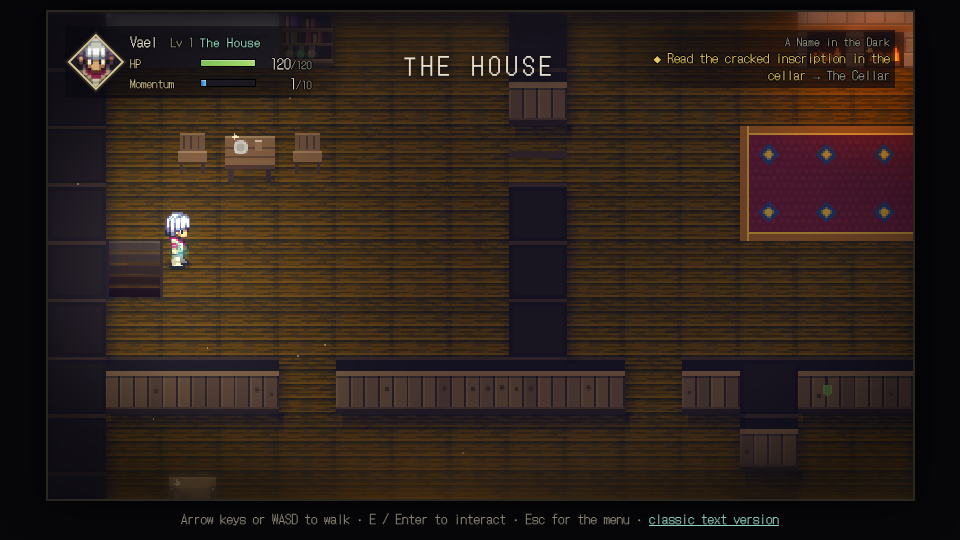
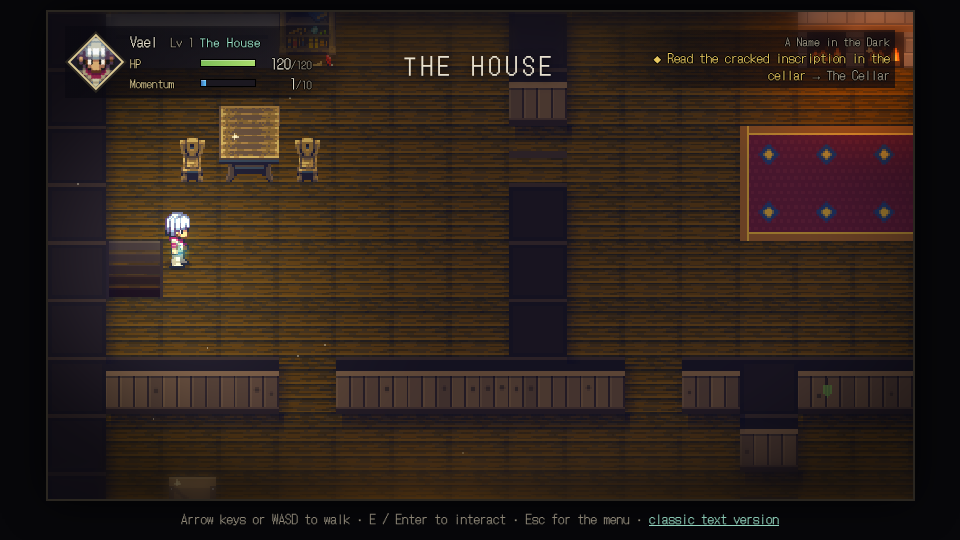
Mana Seed furniture: tables, chairs, bookcases and rocking chairs indoors
Claude-Session: https://claude.ai/code/session_018ysfjQ3yuk5cLUFu11AbcY

Changed region(s): [[0.1875, 0.1778, 0.3438, 0.3556], [0.3125, 0.0593, 0.375, 0.1185]]

diff --git a/assets/packed/assets.js b/assets/packed/assets.js
@@ -2,5 +2,5 @@
 (function (global) {
     const ENSO = global.ENSO || (global.ENSO = {});
     const A = ENSO.packedAssets || (ENSO.packedAssets = {});
[2 lines of base64/hex data omitted]
 })(typeof window !== 'undefined' ? window : globalThis);

diff --git a/ui/tiles-manaseed.js b/ui/tiles-manaseed.js
@@ -17,7 +17,7 @@
     const KEY = 'tiles/manaseed';
     const t16 = (sheet, c, r) => [sheet, c * 16, r * 16, 16, 16];
     // name -> [pack sheet, x, y, w, h] in the pack's own pictures. S = seasonal sample (summer), T = simplified
-    // full timber, H = home interiors, timber roof.
+    // full timber, H = home interiors, timber roof, C = cozy furnishings sampler.
     const PARTS = {
         ...Object.fromEntries([1, 2, 3, 4, 5].map((r, i) => [`grass${i}`, t16('S', 0, r)])),
         ...Object.fromEntries([[0, 6], [1, 6], [2, 6], [3, 6], [0, 7], [1, 7], [2, 7], [3, 7]].map(([c, r], i) => [`flowers${i}`, t16('S', c, r)])),
@@ -31,7 +31,8 @@
         tree: ['S', 176, 0, 80, 112],
         boulder: ['S', 48, 224, 32, 32],
         wall: ['T', 128, 96, 32, 32], window: ['T', 96, 96, 32, 32], roof: ['T', 208, 32, 32, 32],
-        floor: ['H', 16, 160, 32, 32]
+        floor: ['H', 16, 160, 32, 32],
+        table: ['C', 39, 5, 34, 42], chair: ['C', 17, 7, 14, 24], bookcase: ['C', 128, 0, 32, 54], rocker: ['C', 74, 50, 21, 30]
     };
 
     /** Where each part sits in the shipped atlas: shelf-packed in PARTS order, ATLAS_W wide. Shared with the tool. */
@@ -60,6 +61,14 @@
         const img = sheet();
         if (!img) return false;
         for (let y = 0; y < T; y += 32) for (let x = 0; x < T; x += 32) put(g, img, name, px + x, py + y);
+    };
+
+    /** Furniture: the piece stands on the bottom middle of its cell (taller pieces reach into the cell above). */
+    const stand = (name) => (g, px, py, T) => {
+        const img = sheet();
+        if (!img) return false;
+        const [, , w, h] = AT[name];
+        put(g, img, name, px + Math.floor((T - w) / 2), py + T - h - 1);
     };
 
     // What a path's edge treats as grass.
@@ -102,7 +111,8 @@
             if (!img) return false;
             put(g, img, 'boulder', px + (T - 32) / 2, py + T - 32);
         },
-        house_wall: fill32('wall'), timber_wall: fill32('wall'), house_window: fill32('window'), roof: fill32('roof')
+        house_wall: fill32('wall'), timber_wall: fill32('wall'), house_window: fill32('window'), roof: fill32('roof'),
+        table: stand('table'), chair: stand('chair'), shelf: stand('bookcase'), armchair: stand('rocker')
     };
 
     /** Where a tree's sprite goes: trunk foot at the bottom middle of its cell. */

diff --git a/tools/gen-manaseed-tiles.js b/tools/gen-manaseed-tiles.js
@@ -15,10 +15,10 @@ const { PARTS, layout } = require('../ui/tiles-manaseed.js');
 
 const root = path.join(__dirname, '..');
 const pack = path.resolve(process.argv[2] || process.env.MANASEED_DIR || '/mnt/project-files/25.07 - Free Mana Seed RPG Starter Pack');
-const SHEETS = { S: 'seasonal sample (summer).png', T: 'simplified full timber.png', H: 'home interiors, timber roof.png' };
+const SHEETS = { S: 'tilesets/seasonal sample (summer).png', T: 'tilesets/simplified full timber.png', H: 'tilesets/home interiors, timber roof.png', C: 'icons & objects/cozy furnishings sampler.png' };
 const OUT = path.join(root, 'assets/src/tiles/manaseed.png');
 
-const src = Object.fromEntries(Object.entries(SHEETS).map(([k, f]) => [k, PNG.decode(fs.readFileSync(path.join(pack, 'tilesets', f)))]));
+const src = Object.fromEntries(Object.entries(SHEETS).map(([k, f]) => [k, PNG.decode(fs.readFileSync(path.join(pack, f)))]));
 const { at, w, h } = layout();
 const out = { w, h, data: Buffer.alloc(w * h * 4) };
 for (const [name, [sheet, sx, sy, pw, ph]] of Object.entries(PARTS)) {
